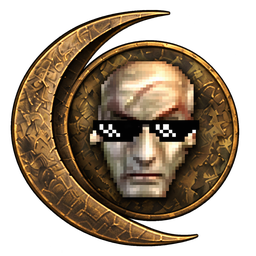
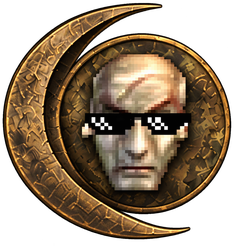
Make Jiub the largest element in the jumbotron

diff --git a/styles.css b/styles.css
@@ -29,7 +29,7 @@ p { margin: 0 0 16px; }
   isolation: isolate;
   overflow: hidden;
   margin-block: 0 24px;
-  padding: clamp(38px, 6vw, 58px) 20px clamp(34px, 5vw, 48px);
+  padding: clamp(12px, 2vw, 22px) 20px clamp(14px, 2vw, 24px);
   border-bottom: 1px solid #927444;
   background-color: #080705;
   background-image:
@@ -71,7 +71,8 @@ p { margin: 0 0 16px; }
   mask-image: linear-gradient(to left, transparent, #000 12%, #000 44%, transparent 96%);
 }
 .jumbotron h1 {
-  margin: 0;
+  width: fit-content;
+  margin: 0 auto;
   color: #e0bc7b;
   font: 700 clamp(67px, 12vw, 112px)/.91 "Cormorant Garamond", Georgia, serif;
   letter-spacing: -.045em;
@@ -81,7 +82,7 @@ p { margin: 0 0 16px; }
   position: relative;
   width: 112px;
   height: 1px;
-  margin: 20px auto 11px;
+  margin: 12px auto 10px;
   background: linear-gradient(90deg, transparent, #a7824a, transparent);
 }
 .jumbotron-ornament::after {
@@ -96,13 +97,13 @@ p { margin: 0 0 16px; }
 }
 .jumbotron-jiub {
   display: block;
-  width: clamp(96px, 13vw, 128px);
+  width: clamp(180px, 30vw, 280px);
   height: auto;
-  margin: 0 auto 14px;
+  margin: 0 auto 2px;
 }
 .intro {
   max-width: 39ch;
-  margin: 0 auto 23px;
+  margin: 0 auto 16px;
   font-size: clamp(17px, 2.3vw, 20px);
   text-wrap: balance;
   text-shadow: 0 1px 3px #000;

diff --git a/index.html b/index.html
@@ -7,12 +7,12 @@
   <meta name="description" content="Get tes3np, the Windows launcher and patcher for Morrowind's Nerevarine Prophecies server.">
   <title>tes3np · Nerevarine Prophecies Launcher</title>
   <link rel="stylesheet" href="https://fonts.googleapis.com/css2?family=Cormorant+Garamond:wght@700&amp;family=Source+Sans+3:wght@400;700&amp;display=swap">
-  <link rel="stylesheet" href="./styles.css?v=13">
+  <link rel="stylesheet" href="./styles.css?v=14">
 </head>
 <body>
   <main id="top">
     <section class="jumbotron" aria-labelledby="project-title">
-      <img class="jumbotron-jiub" src="./assets/jiub.png?v=2" width="256" height="256" alt="Jiub wearing sunglasses">
+      <img class="jumbotron-jiub" src="./assets/jiub.png?v=3" width="234" height="246" alt="Jiub wearing sunglasses">
       <h1 id="project-title">tes3np</h1>
       <div class="jumbotron-ornament" aria-hidden="true"></div>
       <p class="intro">A robust game launcher for the Morrowind private server <a href="https://wiki.nerevarineprophecies.com/Main_Page">Nerevarine Prophecies</a>.</p>
